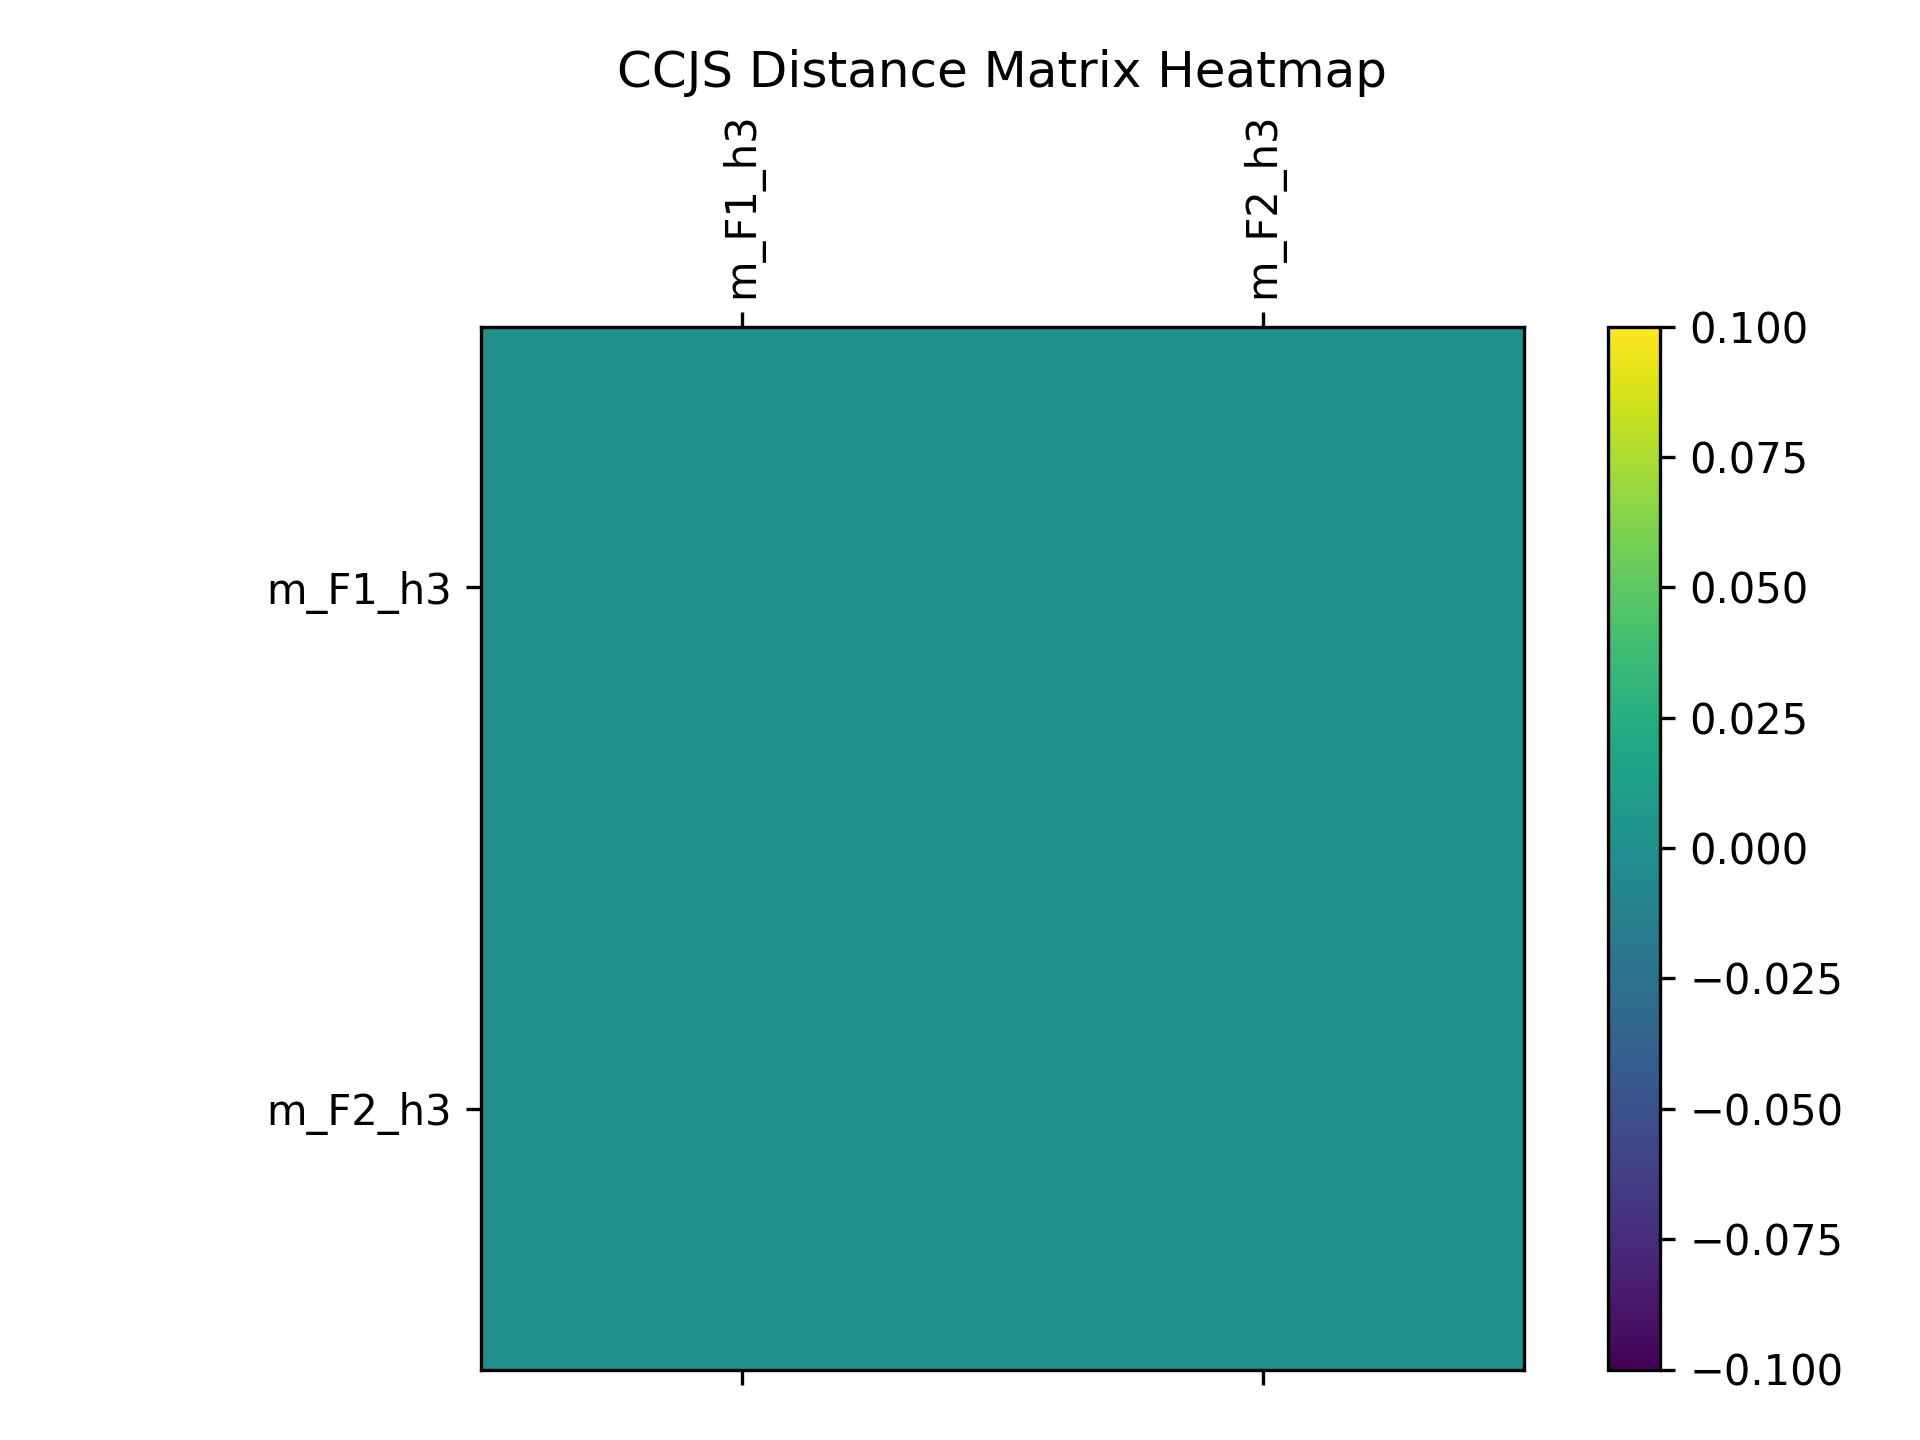
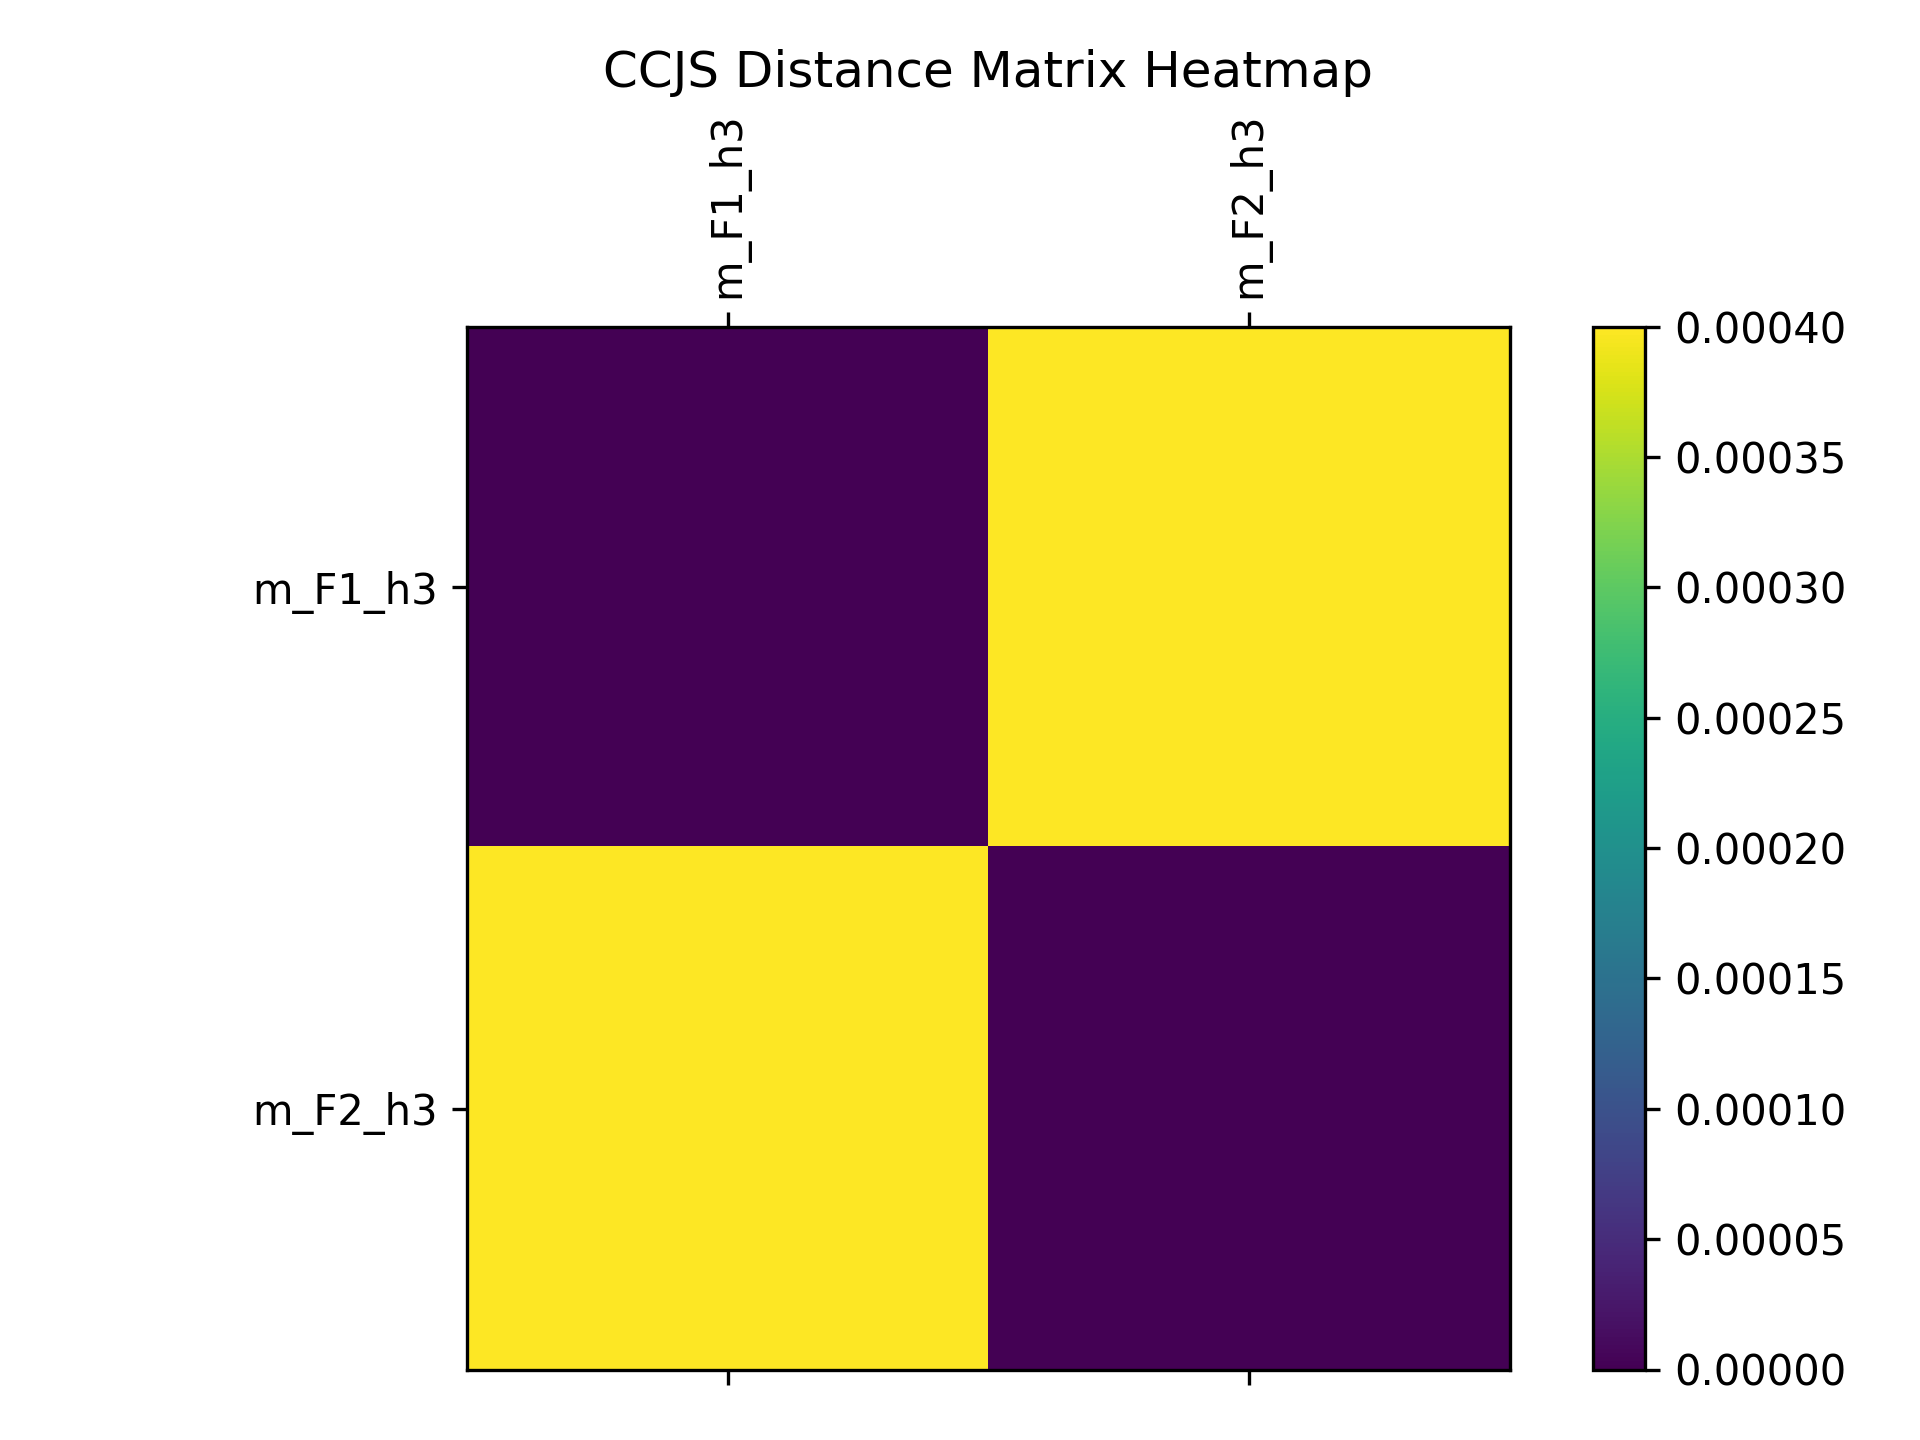
fixup! Implement CCJS divergence(Fault)

diff --git a/experiments/test_ccjs_divergence.py b/experiments/test_ccjs_divergence.py
@@ -1,0 +1,67 @@
+# -*- coding: utf-8 -*-
+"""
+test_ccjs_divergence.py
+
+使用 divergence_calculation.ccjs 包计算 CCJS 距离矩阵，支持传入超参数 n
+"""
+
+import os
+import sys
+
+import pandas as pd
+
+from divergence_calculation.ccjs import (
+    load_bbas,
+    distance_matrix,
+    save_csv,
+    plot_heatmap
+)
+
+if __name__ == '__main__':
+    # todo 默认示例文件名
+    default_name = 'Example_0_1.csv'
+    # 支持通过命令行参数指定 CSV 文件名
+    csv_name = sys.argv[1] if len(sys.argv) > 1 else default_name
+    # 支持通过命令行参数指定超参数 n，默认为 1
+    try:
+        n = int(sys.argv[2]) if len(sys.argv) > 2 else 1
+    except ValueError:
+        print(f"超参数 n 无效: {sys.argv[2]}，请提供正整数！")
+        sys.exit(1)
+
+    # 确定项目根目录：当前脚本位于 divergence_calculation/，故上溯一级
+    script_dir = os.path.dirname(os.path.abspath(__file__))
+    project_root = os.path.dirname(script_dir)
+
+    # 构造数据文件路径（相对于项目根）
+    csv_path = os.path.join(project_root, 'data', 'examples', csv_name)
+    if not os.path.isfile(csv_path):
+        print(f"找不到 CSV 文件: {csv_path}")
+        sys.exit(1)
+
+    # 读取 CSV 并解析 BBA 数据
+    df = pd.read_csv(csv_path, encoding='utf-8')
+    bbas, _ = load_bbas(df)
+
+    # todo 构造簇规模参数：请手动指定各簇的规模（根据实际 bbas 名称修改）
+    # 例如，若有三个簇，名称分别为 'clus1','clus2','clus3'，规模为 1,2,3：
+    sizes = {
+        'm_F1_h3': 4,
+        'm_F2_h3': 1,
+        'm_F3_h3': 1,
+    }
+
+    # 计算 CCJS 距离矩阵
+    dist_df = distance_matrix(bbas, sizes)
+
+    # 控制台输出距离矩阵
+    print("\n----- CCJS 距离矩阵 -----")
+    print(dist_df.to_string())
+
+    # 保存到 CSV（experiments_result 目录）
+    save_csv(dist_df, default_name=csv_name)
+    print(f"结果 CSV: experiments_result/ccjs_{os.path.splitext(csv_name)[0]}.csv")
+
+    # 绘制并保存热力图
+    plot_heatmap(dist_df, default_name=csv_name)
+    print(f"可视化图已保存到: experiments_result/ccjs_{os.path.splitext(csv_name)[0]}.png")

diff --git a/divergence_calculation/ccjs.py b/divergence_calculation/ccjs.py
@@ -148,7 +148,7 @@ def plot_heatmap(
 # ------------------------------ 主函数 ------------------------------ #
 if __name__ == '__main__':
     # todo 默认示例文件，需要自定义
-    default_name = 'Example_0_3.csv'
+    default_name = 'Example_0_1.csv'
     csv_name = sys.argv[1] if len(sys.argv) > 1 else default_name
 
     project_root = os.path.abspath(os.path.join(os.path.dirname(__file__), '..'))
